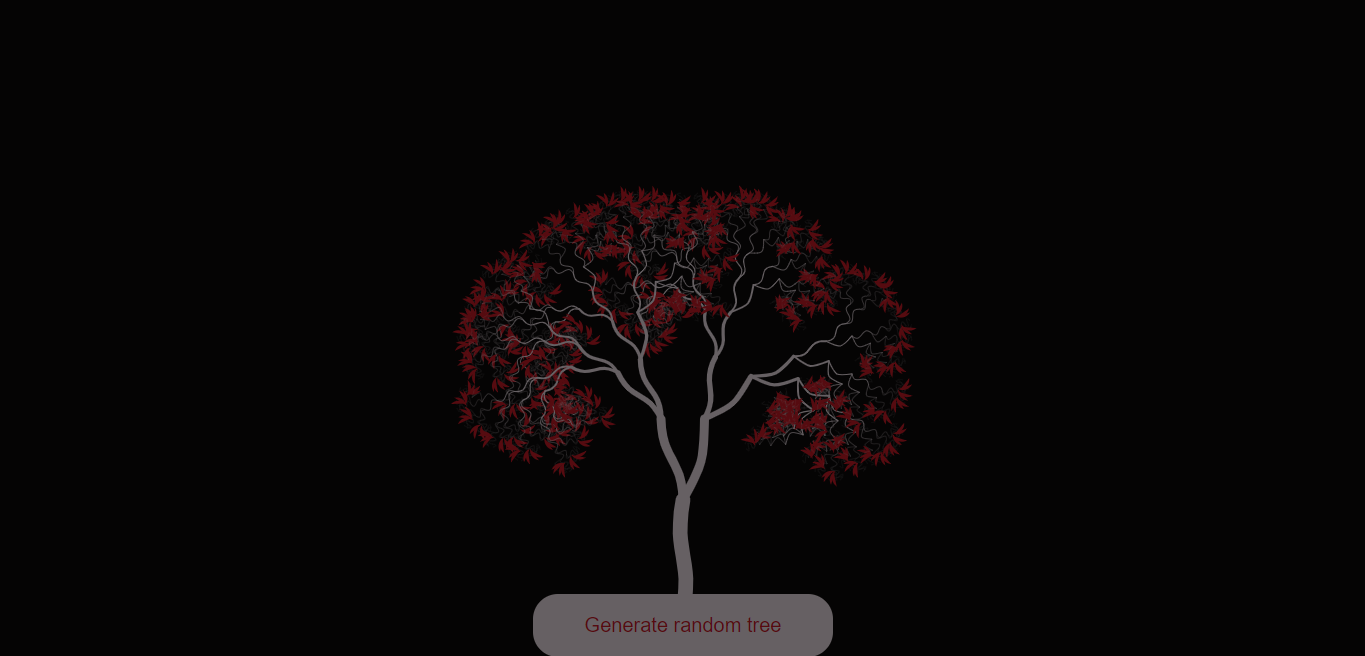
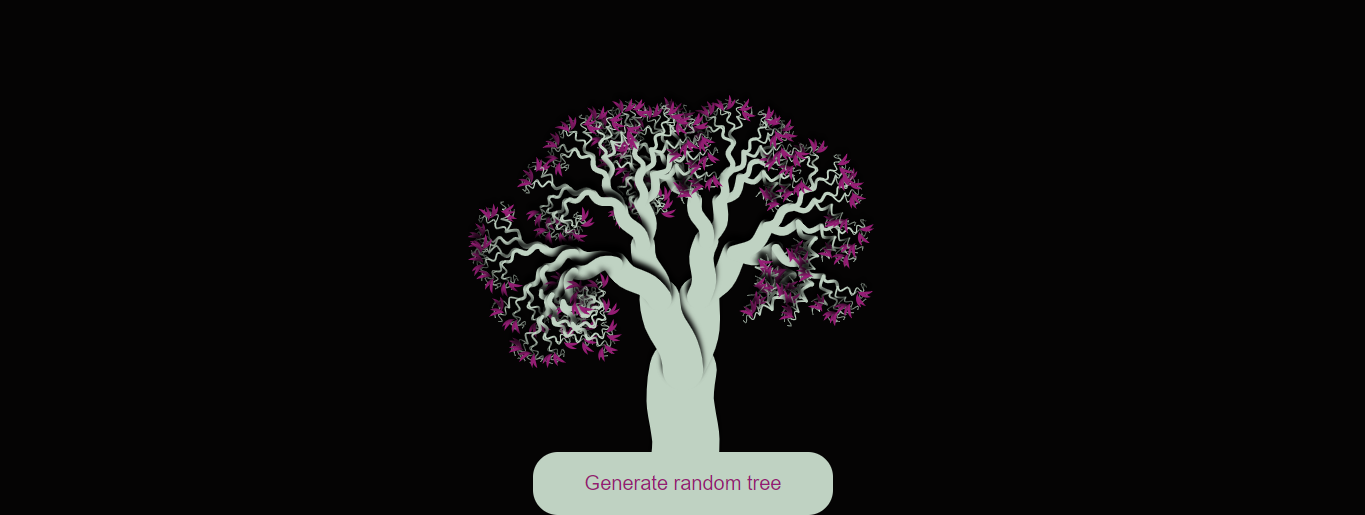
fixed shadows

Changed region(s): [[0.3385, 0.1864, 0.6769, 1.0]]

diff --git a/index.js b/index.js
@@ -17,8 +17,11 @@ const drawTree = (startX, startY, len, angle, branchWidth, bodyColor, leavesColo
 	ctx.lineWidth = branchWidth
 	ctx.translate(startX, startY)
 	ctx.rotate(angle * Math.PI / 180)
-	ctx.moveTo(0, 0)
+	ctx.shadowColor = '#000';
+	ctx.shadowOffsetY = -7;
+	ctx.shadowBlur = 5;
 	ctx.lineCap = "round"
+	ctx.moveTo(0, 0)
 
 	if (angle < 10) {
 		ctx.bezierCurveTo(10, -len / 2, -10, -len / 2, 0, -len)
